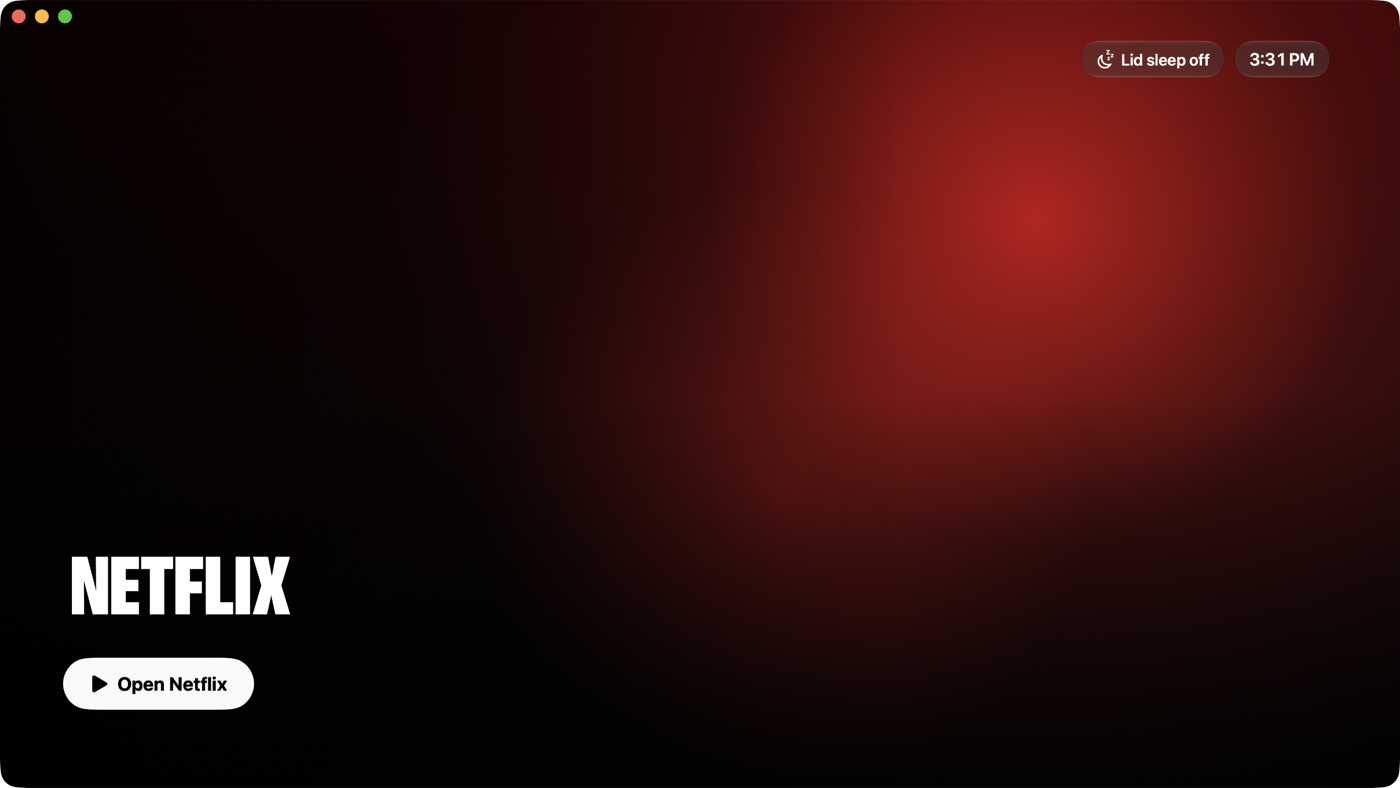
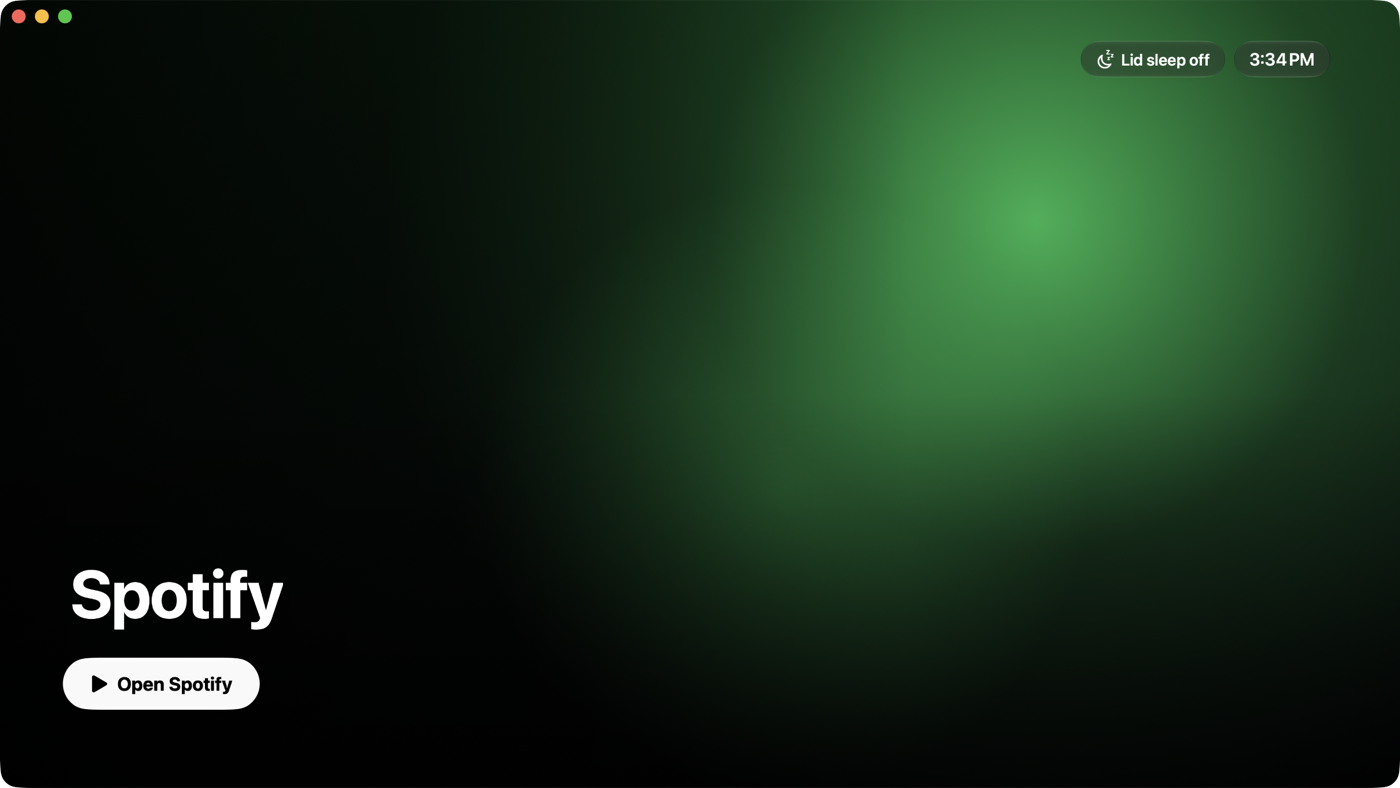
SF Pro throughout, as on Apple TV
The Top Shelf names the app in SF Pro Bold at standard width in its
own capitalization, the screensaver clock drops the rounded design,
and the pairing details and the remote's code box use SF Pro with
even-width digits instead of a monospaced font.

diff --git a/Sources/MacTV/Views.swift b/Sources/MacTV/Views.swift
@@ -132,7 +132,7 @@ struct Screensaver: View {
                         .font(.system(size: 34, weight: .semibold))
                         .foregroundStyle(.white.opacity(0.85))
                     Text(context.date.formatted(.dateTime.hour(.defaultDigits(amPM: .omitted)).minute()))
-                        .font(.system(size: 230, weight: .bold, design: .rounded))
+                        .font(.system(size: 230, weight: .bold))
                         .monospacedDigit()
                         .foregroundStyle(.white.opacity(0.92))
                         .tracking(-4)
@@ -501,9 +501,10 @@ struct AppBanner: View {
                            startPoint: .top, endPoint: .bottom)
 
             VStack(alignment: .leading, spacing: 18) {
+                // SF Pro at standard width, in the app's own capitalization, as Apple TV sets titles.
                 Text(service.name)
-                    .font(.system(size: 112, weight: .black).width(.compressed))
-                    .textCase(.uppercase)
+                    .font(.system(size: 92, weight: .bold))
+                    .tracking(-1.5)
                     .lineLimit(2)
                     .minimumScaleFactor(0.5)
                     .shadow(color: .black.opacity(0.35), radius: 12, y: 4)
@@ -607,7 +608,8 @@ struct PairSheet: View {
                     ForEach(links) { link in Text("\(link.label): \(link.address)") }
                     Text("Pairing code \(code)")
                 }
-                .font(.system(size: 20, weight: .medium, design: .monospaced))
+                .font(.system(size: 20, weight: .medium))
+                .monospacedDigit()
                 .foregroundStyle(.white.opacity(0.7))
                 ShelfButton(title: "Done", focused: true, action: done)
                     .padding(.top, 8)

diff --git a/Sources/MacTV/RemotePage.swift b/Sources/MacTV/RemotePage.swift
@@ -113,7 +113,7 @@ enum RemotePage {
       #pair.show { display:flex; }
       #pair h1 { margin:0; font-size:26px; }
       #pair p { margin:0; color:var(--dim); }
-      #pair input { font:600 30px ui-monospace, monospace; letter-spacing:.3em; text-align:center; background:var(--glass); color:#fff; border:1px solid rgba(255,255,255,.2); border-radius:14px; height:64px; -webkit-user-select:text; user-select:text; }
+      #pair input { font:600 30px -apple-system, system-ui, Roboto, sans-serif; font-variant-numeric:tabular-nums; letter-spacing:.3em; text-align:center; background:var(--glass); color:#fff; border:1px solid rgba(255,255,255,.2); border-radius:14px; height:64px; -webkit-user-select:text; user-select:text; }
       #pair button { height:52px; border:0; border-radius:999px; background:#fff; color:#000; font-weight:700; }
     </style>
     </head>
